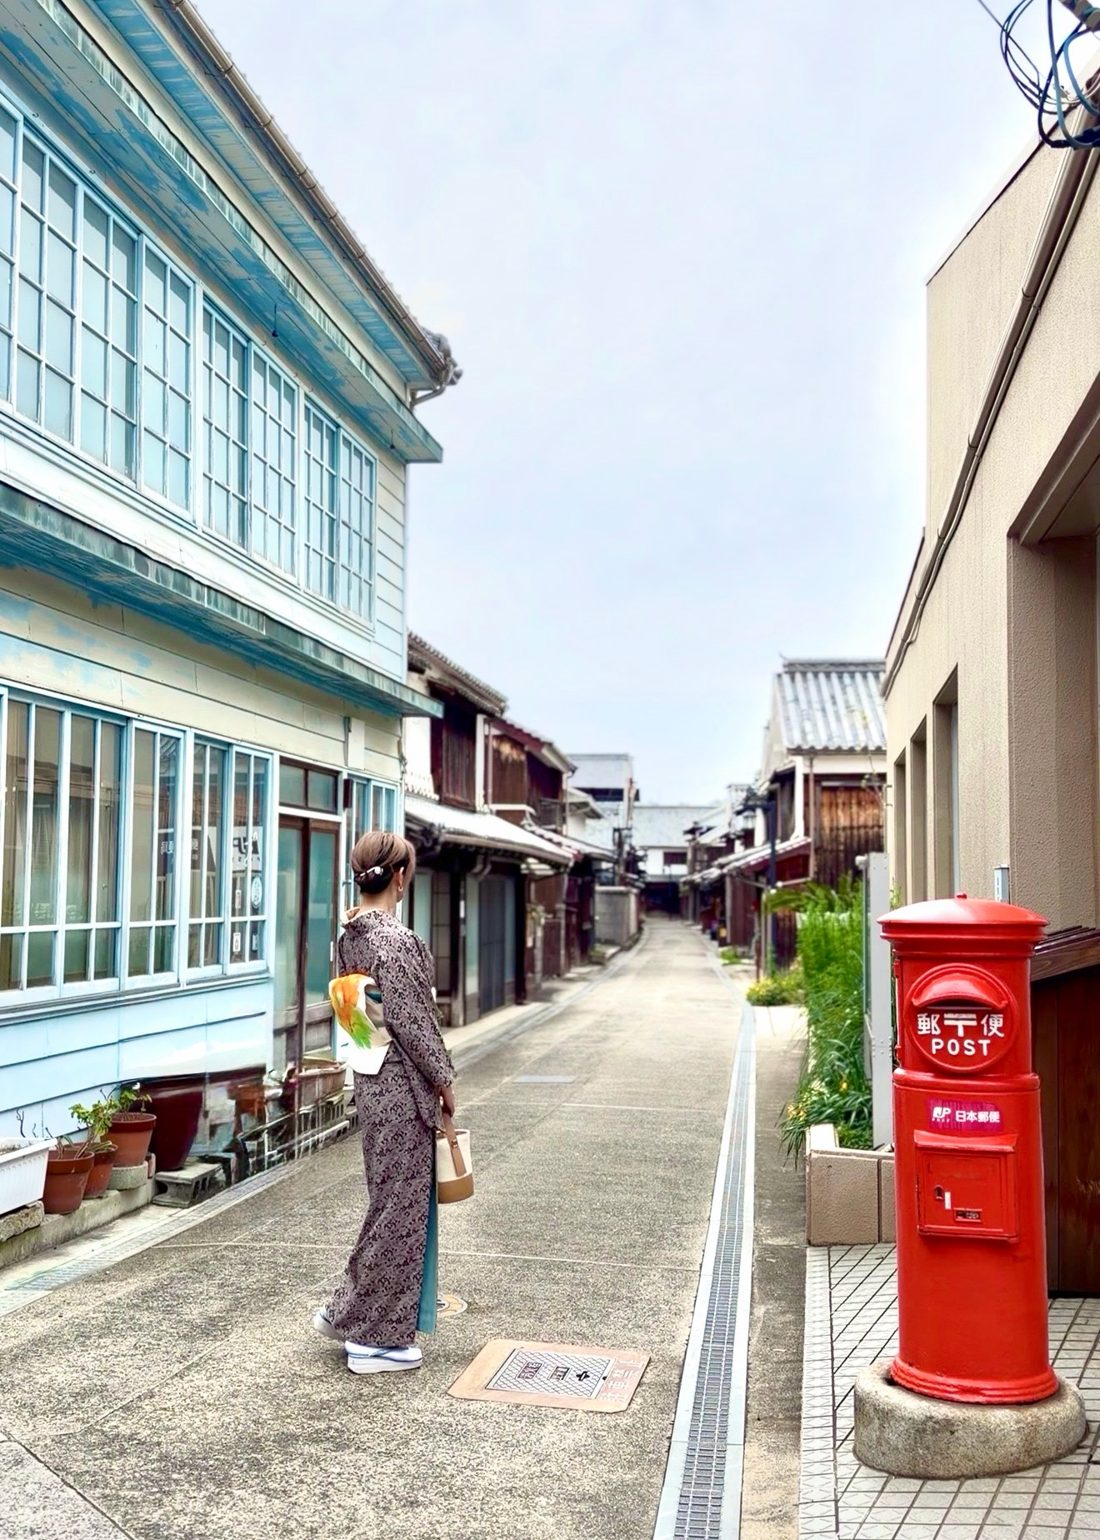
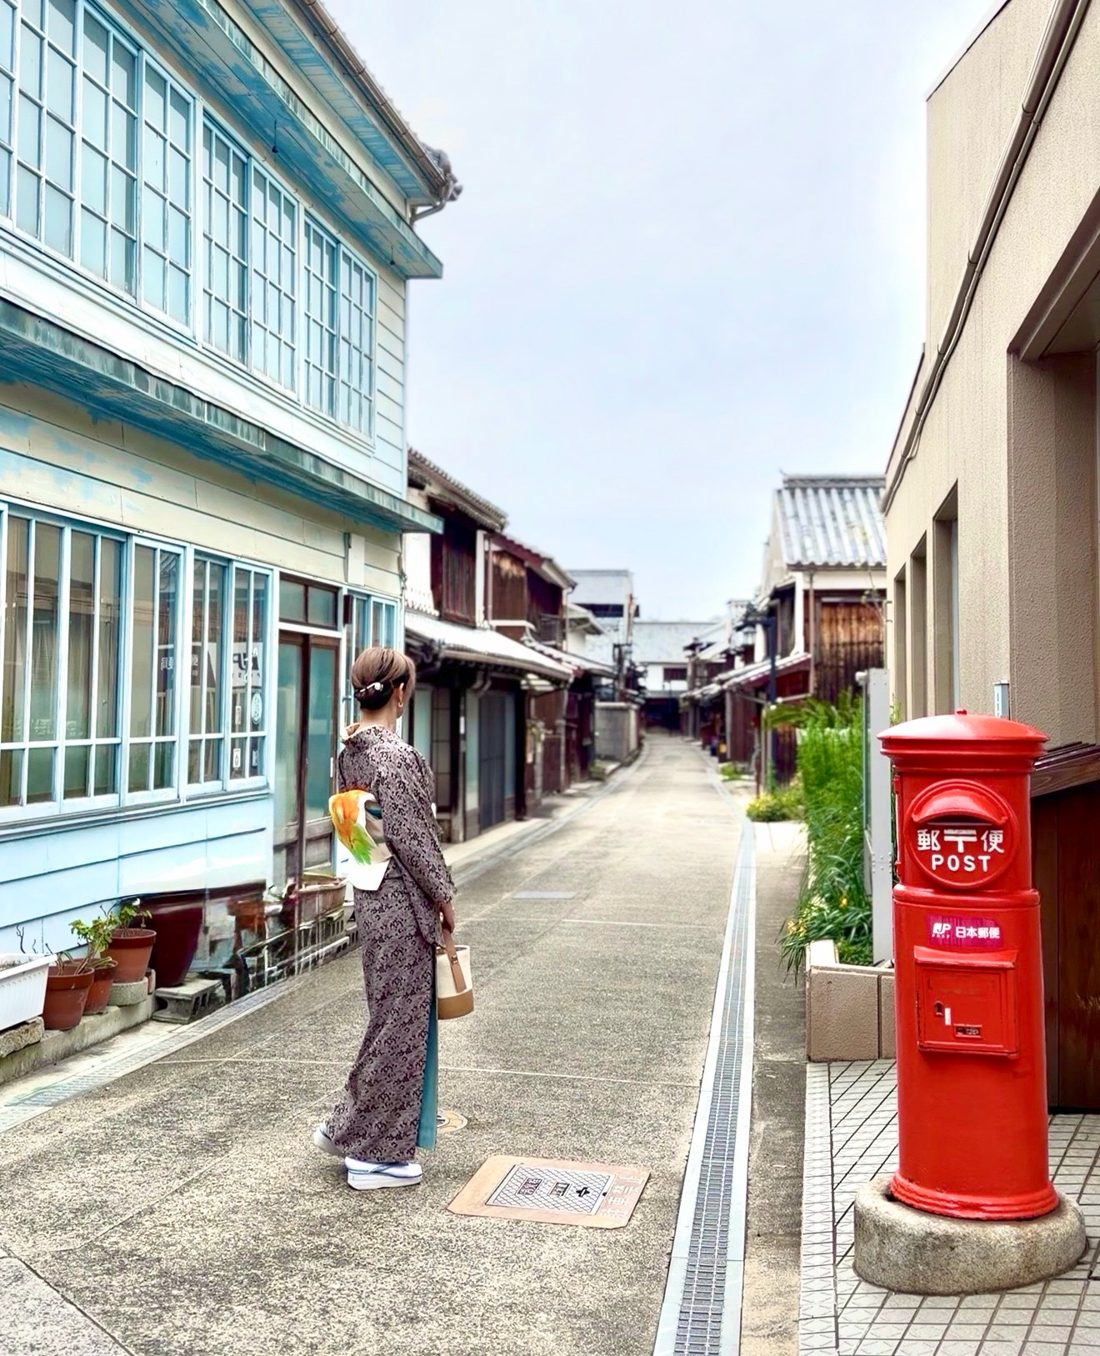
Adjust hero photo crop to include feet

diff --git a/index.html b/index.html
@@ -56,13 +56,13 @@ nav.main a:hover{color:var(--vermillion)}
 .btn.ghost{color:var(--indigo);background:transparent}
 .btn.ghost:hover{background:var(--indigo);color:#fff}
 .hero-photo{position:relative;clip-path:polygon(12% 0,100% 0,100% 100%,0 100%);background:var(--indigo)}
-.hero-photo img{width:100%;height:100%;object-fit:cover;object-position:center 22%}
+.hero-photo img{width:100%;height:100%;object-fit:cover;object-position:center 82%}
 .hero-photo .badge{position:absolute;right:18px;bottom:18px;background:var(--indigo);color:#fff;font-size:11px;letter-spacing:.18em;padding:7px 14px}
 .hero-vtext{position:absolute;top:96px;right:calc(50% - 4px);writing-mode:vertical-rl;font-family:var(--serif);letter-spacing:.42em;font-size:13px;color:var(--indigo);background:var(--paper);padding:14px 7px;border:1px solid var(--line)}
 @media(max-width:860px){
   .hero-in{grid-template-columns:1fr;min-height:0}
   .hero-text{padding:48px 24px 8px}
-  .hero-photo{clip-path:none;height:380px;margin-top:28px}
+  .hero-photo{clip-path:none;height:520px;margin-top:28px}
   .hero-vtext{display:none}
 }
 
